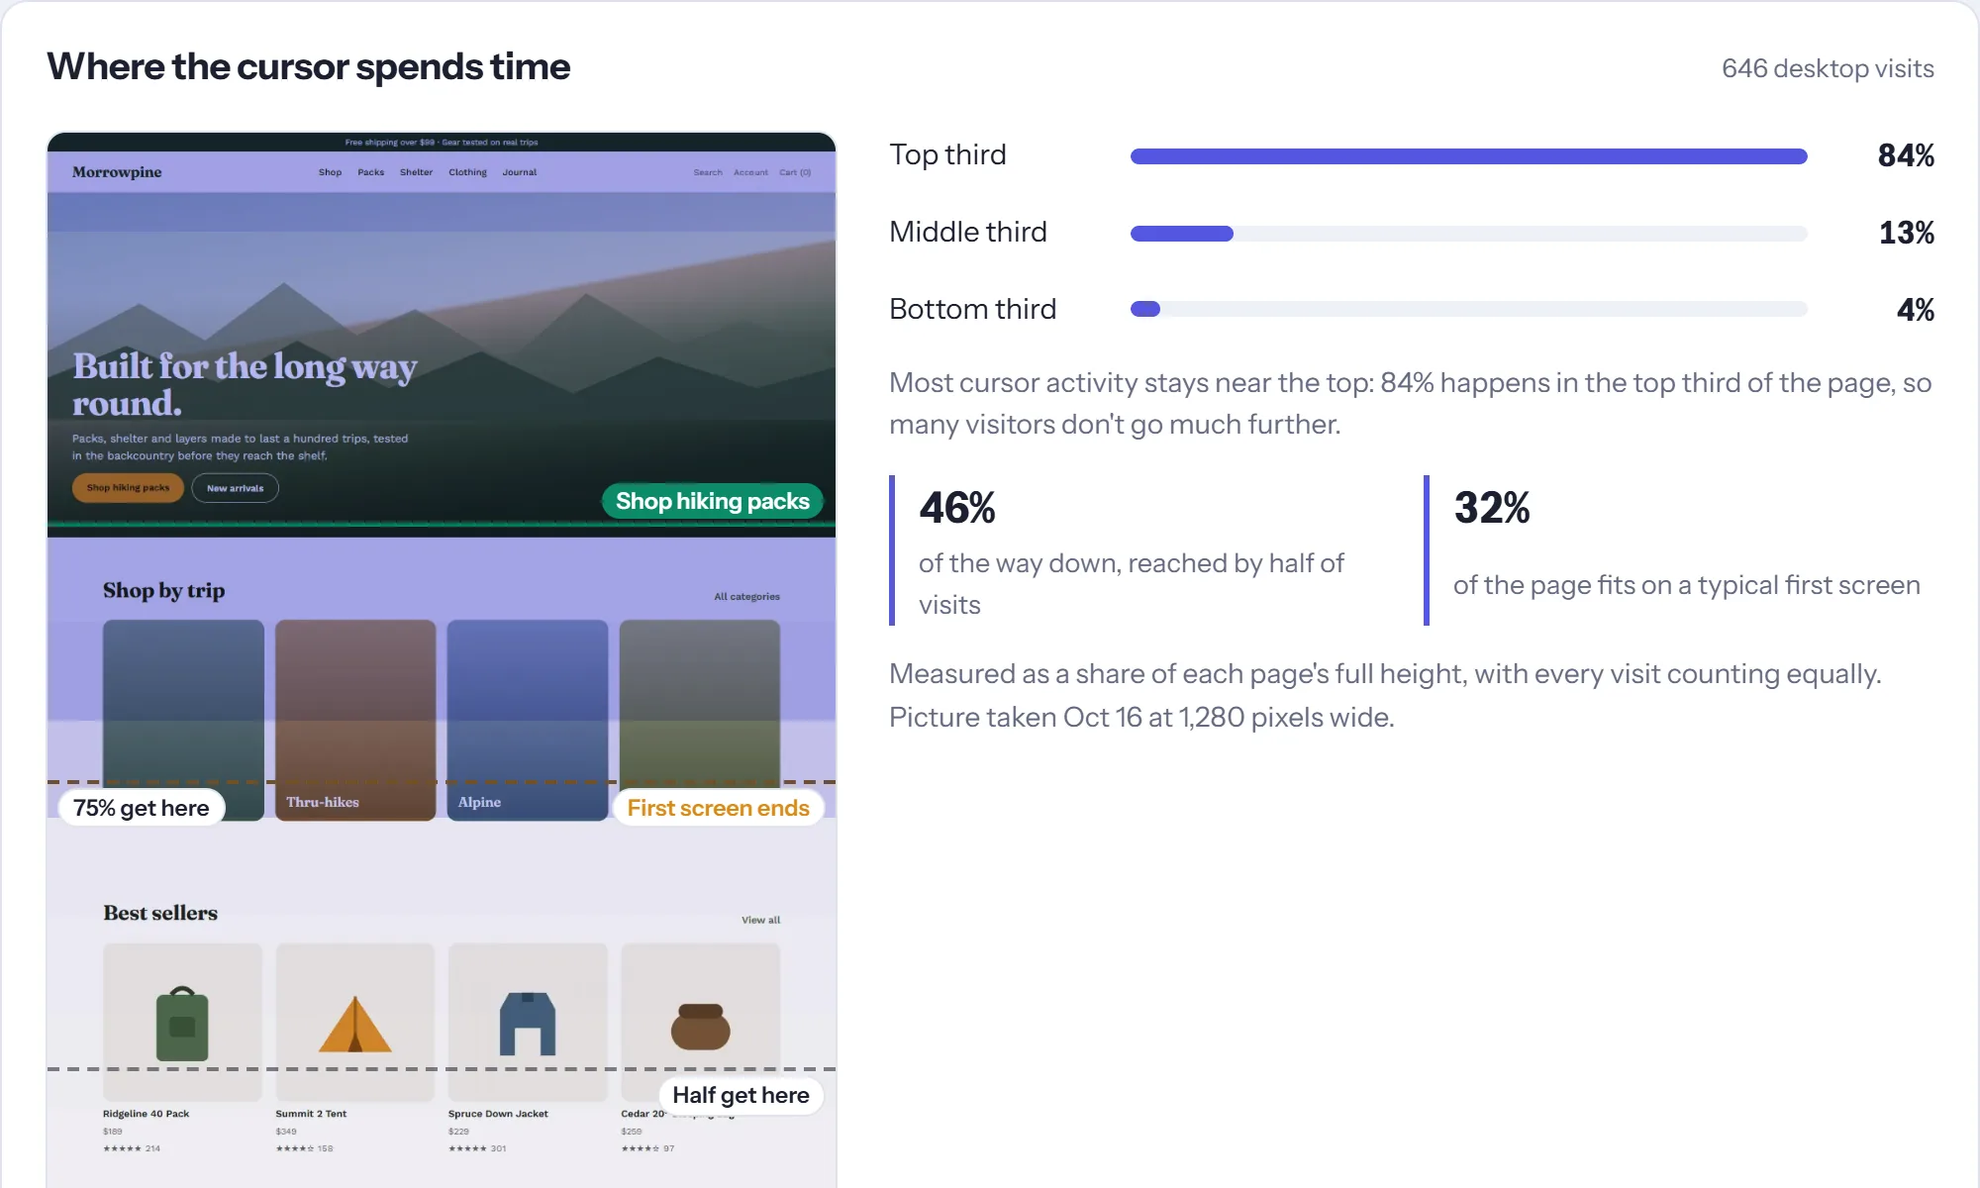
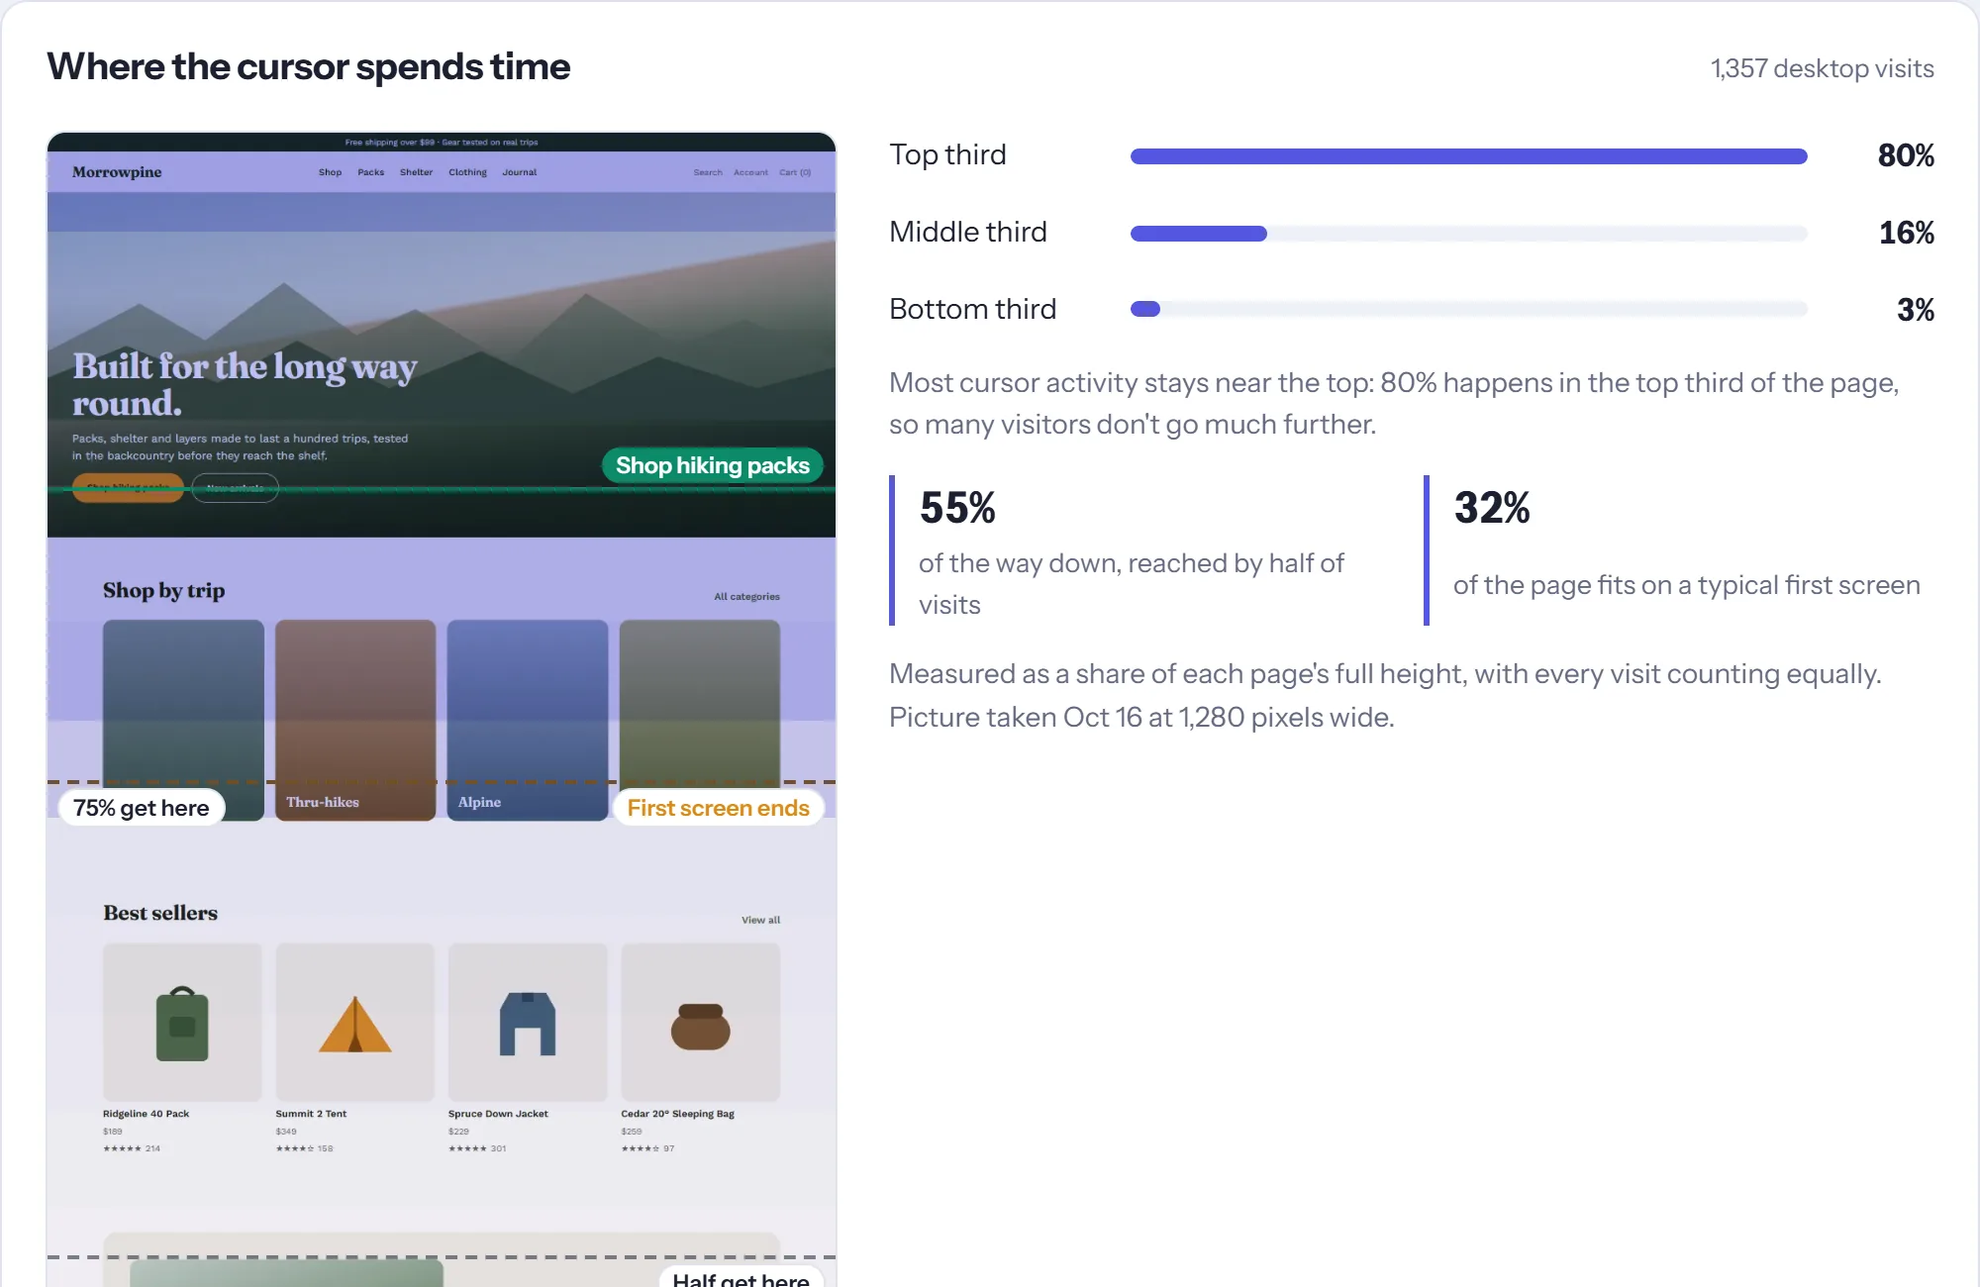
Rework the homepage around one demo story
- Sections now run attention, goals, what to change, visitor groups, journeys
- New goals section, and What to change shows the evidence behind a suggestion
- Every picture comes from one consistent demo shop
- Shorter copy, and no more cropped pictures

diff --git a/server/public/tracetray.html b/server/public/tracetray.html
@@ -129,13 +129,9 @@ section { padding: 104px 0; }
 .row-copy li i { width: 10px; height: 10px; border-radius: 3px; }
 .row-copy li b { color: var(--ink); }
 .frame { border-radius: 16px; overflow: hidden; border: 1px solid var(--line); background: var(--paper); box-shadow: 0 30px 60px -36px rgba(28, 32, 48, 0.5); }
-.pair { position: relative; padding-bottom: 90px; }
-.pair .frame:first-child { width: 72%; }
-.pair .frame:last-child { position: absolute; right: 0; bottom: 0; width: 34%; }
 .card-shot { max-width: 340px; justify-self: center; }
 .row.tall { grid-template-columns: minmax(0, 500px) auto; justify-content: center; gap: 96px; }
 .row.flip.tall { grid-template-columns: auto minmax(0, 500px); }
-.who-crop { max-height: 560px; overflow: hidden; max-width: 460px; justify-self: center; }
 
 /* Comparison and extras */
 .gap { padding-bottom: 0; }
@@ -207,8 +203,6 @@ footer span { margin-left: auto; }
   .steps, .plans, .compare, .extras-grid, .extras-grid.three { grid-template-columns: 1fr; }
   section { padding: 72px 0; }
   .row + .row { margin-top: 72px; }
-  .pair { padding-bottom: 0; display: grid; gap: 16px; }
-  .pair .frame:first-child, .pair .frame:last-child { position: static; width: 100%; }
 }
 @media (max-width: 560px) {
   .wrap { padding: 0 16px; }
@@ -273,7 +267,7 @@ footer span { margin-left: auto; }
       <div class="compare">
         <div><h3>Pageview analytics</h3><p>Traffic, sources and exits. Not what happens on the page.</p></div>
         <div><h3>Heatmaps and recordings</h3><p>Where people clicked, one visit at a time. They copy the page as it's shown, so sensitive details can end up in recordings, and ad blockers often stop them.</p></div>
-        <div class="us"><h3>TraceTray</h3><p>Who your visitors are by behaviour and what each group needs. It never sees page content, typing or form input, and stores nothing on visitors' devices.</p></div>
+        <div class="us"><h3>TraceTray</h3><p>Who your visitors are by behaviour and what each group needs. It never records what visitors see or type, and stores nothing on their devices.</p></div>
       </div>
     </div>
   </section>
@@ -323,67 +317,56 @@ footer span { margin-left: auto; }
 
   <section class="features" id="see">
     <div class="wrap">
-      <div class="row tall">
+      <div class="row">
         <div class="row-copy">
-          <h2>Who is reading and who is scanning</h2>
-          <p class="lead-line">See the few kinds of visitor each page gets, such as people who decide fast, people who compare and people who skim, and how many of each.</p>
-          <p>Every visit becomes a profile of 13 behavioural measures on desktop and 8 on phones: cursor speed, pause rate, scroll depth, hesitation before clicks, how widely attention ranges and more. Machine learning clusters similar profiles into groups.</p>
-          <ul class="method">
-            <li>The number of groups is chosen by how cleanly the data separates, up to five.</li>
-            <li>Every split is checked against data with no groups in it and on random samples. If none holds up, TraceTray says visitors behave alike.</li>
-            <li>Only differences large enough to matter are highlighted.</li>
-          </ul>
+          <h2>Where attention goes on your page</h2>
+          <p>See it on the page itself: where cursors spend time, where the first screen ends, and how far down people get before they leave.</p>
         </div>
-        <div class="frame who-crop"><img src="/assets/home/who.webp" width="766" height="1036" alt="Who visits: Quick deciders 67% and Re-checkers 33%, each with how often they reach Shop hiking packs against the average"></div>
+        <div class="frame"><img src="/assets/home/attention.webp" width="2000" height="1300" alt="The shop's homepage shaded where the cursor spends time, with lines where the first screen ends and how far visitors get, beside the share of activity in each third of the page"></div>
+      </div>
+
+      <div class="row flip">
+        <div class="row-copy">
+          <h2>Goals for every page</h2>
+          <p>Pick what a page is for, such as a buy button, a sign-up form or the next page, and see how many visits get there, week by week.</p>
+        </div>
+        <div class="frame"><img src="/assets/home/goals.webp" width="1416" height="948" alt="Product pages: 47% of visits reached Added to cart in the last 30 days, with the rate for each of the last 12 weeks"></div>
+      </div>
+
+      <div class="row">
+        <div class="row-copy">
+          <h2>What to change, and why</h2>
+          <p>When a group of visitors falls short of the page's goal, TraceTray shows why from the numbers: what they click instead, where they leave the page, or how long they hesitate. No suggestion appears without the figures behind it.</p>
+        </div>
+        <div class="frame"><img src="/assets/home/advice.webp" width="1320" height="422" alt="What to try: re-checkers click Size guide instead of Add to cart; 81% of them click it and only 20% add to cart, against 46% overall"></div>
       </div>
 
       <div class="row flip tall">
         <div class="row-copy">
-          <h2>What to change, and why</h2>
-          <p>When a group falls short of the page's goal, TraceTray shows why from the numbers: what they click instead, where they leave the page, or how long they hesitate. No suggestion appears without the figures behind it.</p>
-          <p>Groups keep the same names between analyses, so changes are easy to track.</p>
+          <h2>The kinds of visitor each page gets</h2>
+          <p>Each visit is measured on 13 behaviours on desktop and 8 on phones, and machine learning groups visits that behave alike, such as people who decide fast and people who compare.</p>
+          <ul class="method">
+            <li>The number of groups is chosen by how cleanly the data separates, up to five.</li>
+            <li>Every split is checked against data with no groups in it and on random samples. If none holds up, TraceTray says visitors behave alike.</li>
+          </ul>
         </div>
-        <div class="frame card-shot"><img src="/assets/home/type-card.webp" width="640" height="1212" alt="The Re-checkers group: none reach Added to cart, how they differ from the page average, and a suggestion to look at Reviews"></div>
+        <div class="frame card-shot"><img src="/assets/home/who.webp" width="766" height="1558" alt="Who visits the product pages: re-checkers 35%, quick deciders 28%, header scanners 22% and bottom-of-page roamers 15%, each with how often they add to cart against the average"></div>
       </div>
 
       <div class="row">
         <div class="row-copy">
           <h2>Detailed visitor journeys</h2>
-          <p>Follow visitors across your whole site: where they arrive, the paths they take, and where they leave. Spot the step where a checkout or sign-up loses people.</p>
+          <p>Follow visitors across your whole site: where they arrive, the paths they take, and where they leave. Set up a funnel to see which step of a checkout or sign-up loses people.</p>
         </div>
         <div class="frame"><img src="/assets/home/journeys.webp" width="2000" height="2200" alt="Journeys: where visitors arrive and leave, and the most common moves between pages"></div>
       </div>
 
       <div class="row flip">
         <div class="row-copy">
-          <h2>Ask your analytics</h2>
-          <p>Ask in plain English. TraceTray queries your pages, traffic, clicks, journeys and past analyses, then explains the answer.</p>
-          <ul class="questions">
-            <li>Where do people leave the site?</li>
-            <li>How do mobile visitors behave differently from desktop?</li>
-            <li>Has anything changed since I redesigned the homepage?</li>
-          </ul>
-        </div>
-        <div class="frame"><img src="/assets/home/ask.webp" width="1720" height="1160" alt="Ask answering &ldquo;Where do people leave the site?&rdquo; with exits by page and where a fix would pay off"></div>
-      </div>
-
-      <div class="row">
-        <div class="row-copy">
-          <h2>Where attention goes on your page</h2>
-          <p>See it on the page itself: where cursors spend time, where the first screen ends, how far down people get, and whether they reach your pricing, sign-up form or buy button. On phones, see where people stop to read.</p>
-        </div>
-        <div class="pair">
-          <div class="frame"><img src="/assets/home/attention.webp" width="2000" height="1200" alt="A picture of the shop's homepage shaded where the cursor spends time, with lines where the first screen ends and how far visitors get"></div>
-          <div class="frame"><img src="/assets/home/attention-phone.webp" width="1180" height="1100" alt="On phones: the homepage shaded where visitors stop to read, with where the first screen ends"></div>
-        </div>
-      </div>
-
-      <div class="row flip">
-        <div class="row-copy">
           <h2>Mobile, measured on its own terms</h2>
-          <p>Phones have no cursor, so TraceTray reads taps, scrolling and reading pauses, and analyzes mobile visits separately.</p>
+          <p>Phones have no cursor, so TraceTray reads taps, scrolling and where people stop to read, and analyzes mobile visits separately.</p>
         </div>
-        <div class="frame"><img src="/assets/home/devices.webp" width="2000" height="344" alt="Desktop and phones: 61% desktop, 39% phones, and how far down each gets"></div>
+        <div class="frame"><img src="/assets/home/attention-phone.webp" width="1600" height="1150" alt="On phones: the homepage shaded where visitors stop to read, with how far down they get, how often they tap and how long they stop"></div>
       </div>
 
       <div class="row">
@@ -393,6 +376,19 @@ footer span { margin-left: auto; }
         </div>
         <div class="frame"><img src="/assets/home/pages.webp" width="2200" height="1520" alt="The page tree with product, collection and post pages grouped, and the 24 product pages in one view"></div>
       </div>
+
+      <div class="row flip">
+        <div class="row-copy">
+          <h2>Ask your analytics</h2>
+          <p>Ask in plain English. TraceTray queries your pages, traffic, clicks, journeys and past analyses, then explains the answer.</p>
+          <ul class="questions">
+            <li>Where do people leave the site?</li>
+            <li>Why don&rsquo;t some visitors add to cart?</li>
+            <li>Has anything changed since I redesigned the homepage?</li>
+          </ul>
+        </div>
+        <div class="frame"><img src="/assets/home/ask.webp" width="1754" height="752" alt="Ask answering &ldquo;Why don&rsquo;t re-checkers on the product pages add to cart?&rdquo;: only 20% of them reach Added to cart against 46%, with what they do, the likely blocker and one suggestion"></div>
+      </div>
     </div>
   </section>
 
@@ -401,7 +397,7 @@ footer span { margin-left: auto; }
       <div class="section-head"><h2>Private by design</h2></div>
       <div class="extras-grid three">
         <div><h3>No cookies or device storage</h3><p>Visits are grouped with an ID that changes daily, and the IP address is never stored.</p></div>
-        <div><h3>Never records what visitors see</h3><p>No screen recordings, page content, keystrokes or form input from visits. Pictures of your pages come from TraceTray opening the public page itself.</p></div>
+        <div><h3>Never records what visitors see</h3><p>No screen recordings, page content, keystrokes or form input from visits.</p></div>
         <div><h3>Your data stays yours</h3><p>Not sold, not shared and not used for ads.</p></div>
       </div>
       <p class="privacy-link"><a href="/collects">See exactly what TraceTray collects</a></p>

diff --git a/server/scripts/seed-demo.js b/server/scripts/seed-demo.js
@@ -8,7 +8,8 @@ const { Account, Session } = require("../src/db/models");
 const { regroupSite } = require("../src/lib/pageDays");
 
 const DAY_MS = 24 * 60 * 60 * 1000;
-const VISITORS = 1500;
+const VISITORS = 3200;
+const HISTORY_DAYS = 84;
 
 const PRODUCTS = [
     "ridge-40-pack", "summit-25-daypack", "trailhead-55-pack", "cedar-2-tent", "alpine-ultralight-tent", "basecamp-4-tent",
@@ -29,9 +30,9 @@ const between = (a, b) => a + rand() * (b - a);
 
 // Desktop shoppers: how long they stay, how they move, where on the page they look, what they click.
 const DESKTOP = {
-    buyer:    { weight: 40, duration: [18, 50], speed: [0.6, 1.1], pauses: [1, 3], depth: [0.3, 0.55], yBias: 0.9, dwell: [400, 900], clicks: ["Add to cart", "Colour: Moss", "Size: M"] },
-    comparer: { weight: 35, duration: [90, 240], speed: [0.15, 0.35], pauses: [8, 18], depth: [0.75, 1], yBias: 0.55, dwell: [2000, 4200], clicks: ["Size guide", "Reviews", "Compare", "Next image"], backtrack: true },
-    scanner:  { weight: 25, duration: [5, 14], speed: [1.2, 2.2], pauses: [0, 1], depth: [0.08, 0.22], yBias: 2.2, dwell: [200, 500], clicks: [] }
+    buyer:    { weight: 40, duration: [25, 60], speed: [0.5, 0.9], pauses: [2, 5], depth: [0.4, 0.65], yBias: 0.9, dwell: [400, 900] },
+    comparer: { weight: 35, duration: [90, 240], speed: [0.15, 0.35], pauses: [8, 18], depth: [0.75, 1], yBias: 0.55, dwell: [2000, 4200], backtrack: true },
+    scanner:  { weight: 25, duration: [4, 10], speed: [1.6, 2.6], pauses: [0, 1], depth: [0.05, 0.15], yBias: 2.6, dwell: [200, 500] }
 };
 const PHONE = {
     tapper:  { weight: 40, duration: [20, 60], taps: [3, 7], pauses: [1, 3], pauseMs: [800, 1600], depth: [0.4, 0.7] },
@@ -51,6 +52,20 @@ function journey() {
 }
 
 const target = text => ({ tag: rand() < 0.6 ? "BUTTON" : "A", id: null, text, href: null });
+
+// What each kind of shopper clicks, so the demo's groups, goals and suggestions tell one consistent story.
+const KIND = { buyer: "decider", tapper: "decider", comparer: "browser", reader: "browser", scanner: "leaver", bouncer: "leaver" };
+function clickChoices(kind, path) {
+    if (path === "/") return { decider: [["Shop hiking packs", 90], ["New arrivals", 10]], browser: [["New arrivals", 70], ["Shop hiking packs", 15], ["Journal", 15]], leaver: [["New arrivals", 1]] }[kind];
+    if (path.startsWith("/products")) return { decider: [["Add to cart", 80], ["Colour: Moss", 12], ["Size: M", 8]], browser: [["Size guide", 52], ["Reviews", 40], ["Add to cart", 8]], leaver: [["Reviews", 1]] }[kind];
+    if (path.startsWith("/collections")) return [["Ridge 40L Pack", 40], ["Summit 25 Daypack", 35], ["Filter: Waterproof", 25]];
+    if (path === "/cart") return [["Checkout", 80], ["Remove", 20]];
+    if (path === "/checkout") return [["Pay now", 1]];
+    return [["Shop the gear", 1]];
+}
+const clickCount = kind => kind === "leaver" ? (rand() < 0.1 ? 1 : 0) : kind === "decider" ? 2 + Math.floor(rand() * 2) : 1 + Math.floor(rand() * 4);
+// Where the storefront's main button sits, as a share of the page, so its clicks land on it in the demo picture.
+const HERO_BUTTON = { desktop: 0.173, mobile: 0.13 };
 
 function scrollEvents(start, durationMs, depth, pageHeight, viewport, steps, backtrack, stepPx) {
     const events = [{ type: "page_load", scroll_depth: viewport / pageHeight, page_height: pageHeight, viewport_height: viewport, measured: true, timestamp: start }];
@@ -86,14 +101,13 @@ function desktopEvents(start, persona, path) {
     }
     const pauseCount = Math.round(between(...p.pauses));
     for (let i = 0; i < pauseCount; i++) events.push({ type: "cursor_pause", duration: Math.round(between(600, 3000)), timestamp: Math.round(start + rand() * durationMs) });
-    const clickTargets = path.startsWith("/products") ? p.clicks
-        : path.startsWith("/collections") ? ["Ridge 40L Pack", "Summit 25 Daypack", "Filter: Waterproof"]
-        : path === "/cart" ? ["Checkout", "Remove"] : path === "/checkout" ? ["Pay now"] : ["Shop hiking packs", "New arrivals"];
-    const clickCount = persona === "scanner" ? (rand() < 0.2 ? 1 : 0) : 1 + Math.floor(rand() * (persona === "comparer" ? 4 : 2));
-    for (let i = 0; i < clickCount && clickTargets.length; i++) {
-        const t = Math.round(start + between(0.3, 0.95) * durationMs);
-        const text = i === 0 && persona === "buyer" && path.startsWith("/products") ? "Add to cart" : pick(clickTargets);
-        const y = Math.round(between(120, viewport - 120));
+    const firstScroll = (scrolls[1]?.timestamp ?? start + durationMs) - start;
+    const count = clickCount(KIND[persona]);
+    for (let i = 0; i < count; i++) {
+        const text = weighted(clickChoices(KIND[persona], path));
+        const hero = path === "/" && text === "Shop hiking packs";
+        const t = Math.round(start + (hero ? between(0.2, 0.9) * firstScroll : between(0.3, 0.95) * durationMs));
+        const y = hero ? Math.round(HERO_BUTTON.desktop * pageHeight + between(-12, 12)) : Math.round(between(120, viewport - 120));
         events.push({ type: "cursor_pause", duration: Math.round(between(...p.dwell)), timestamp: t - Math.round(between(...p.dwell)) });
         events.push({ type: "click", tag: "BUTTON", text, target: target(text), x: Math.round(between(200, 1100)), y, py: scrollAt(scrolls, t) + y, timestamp: t });
     }
@@ -115,10 +129,14 @@ function phoneEvents(start, persona, path) {
         events.push({ type: "attention_pause", duration: Math.round(between(...p.pauseMs)), ended_by: i < taps ? "tap" : "scroll",
             viewport_midpoint: scrollAt(scrolls, t) + viewport / 2, page_height: pageHeight, viewport_height: viewport, timestamp: t });
     }
-    const tapTargets = path.startsWith("/products") ? ["Add to cart", "Size guide", "Reviews"] : ["Shop hiking packs", "New arrivals", "Menu"];
-    for (let i = 0; i < taps; i++) {
-        const text = pick(tapTargets);
-        events.push({ type: "tap", x: Math.round(between(20, 370)), y: Math.round(between(100, 700)), text, target: target(text), timestamp: Math.round(start + rand() * durationMs) });
+    const firstScroll = (scrolls[1]?.timestamp ?? start + durationMs) - start;
+    const count = KIND[persona] === "leaver" ? (rand() < 0.1 ? 1 : 0) : Math.max(1, Math.min(taps, 3));
+    for (let i = 0; i < count; i++) {
+        const text = weighted(clickChoices(KIND[persona], path));
+        const hero = path === "/" && text === "Shop hiking packs";
+        const t = Math.round(start + (hero ? between(0.2, 0.9) * firstScroll : rand() * durationMs));
+        const y = hero ? Math.round(HERO_BUTTON.mobile * pageHeight) : Math.round(between(100, 700));
+        events.push({ type: "tap", x: Math.round(between(20, 370)), y, text, target: target(text), timestamp: t });
     }
     return { events: events.sort((a, b) => a.timestamp - b.timestamp), durationMs };
 }
@@ -142,8 +160,8 @@ function isLocal(uri) {
     const docs = [];
     const now = Date.now();
     for (let v = 0; v < VISITORS; v++) {
-        // Traffic grows through the month, like a store that's starting to get found.
-        const daysAgo = Math.floor(30 * rand() ** 1.6);
+        // Traffic grows over the weeks, like a store that's starting to get found.
+        const daysAgo = Math.floor(HISTORY_DAYS * rand() ** 1.6);
         let start = now - daysAgo * DAY_MS - Math.floor(rand() * DAY_MS * 0.9);
         const mobile = rand() < 0.38;
         const persona = mobile ? weighted(Object.entries(PHONE).map(([k, p]) => [k, p.weight])) : weighted(Object.entries(DESKTOP).map(([k, p]) => [k, p.weight]));
